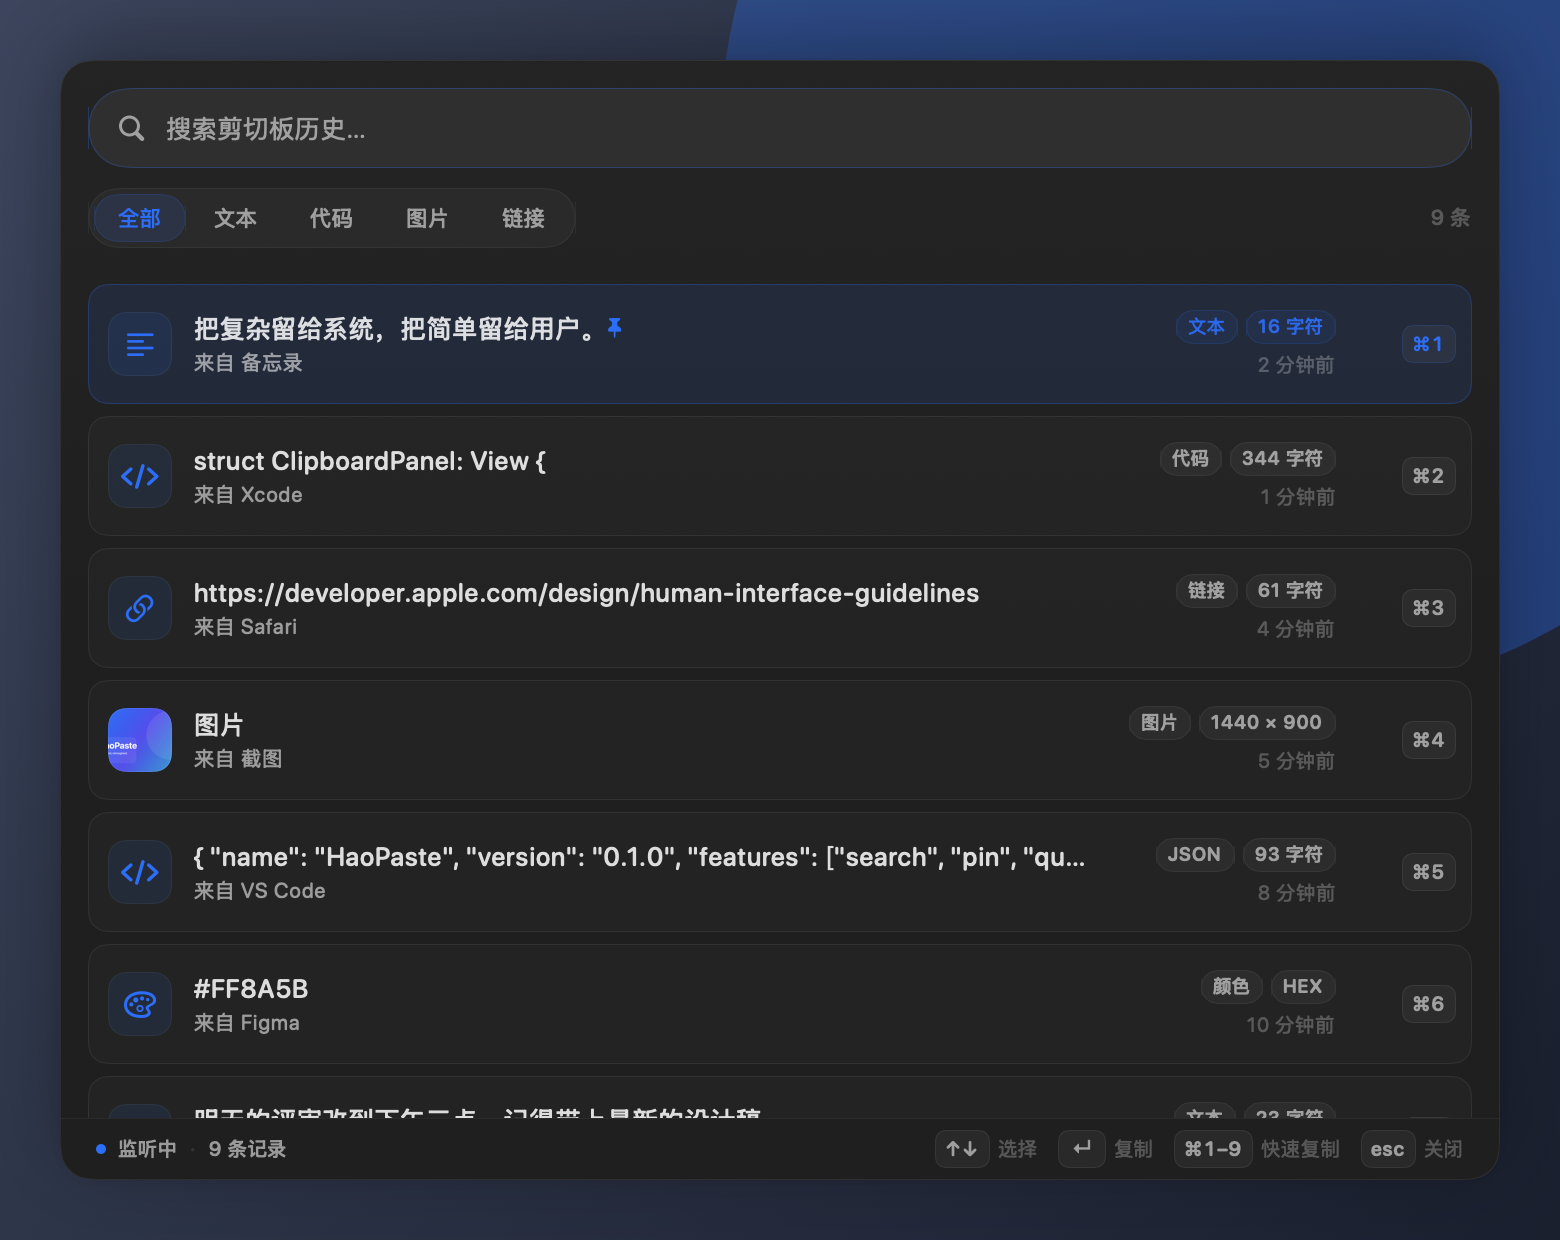
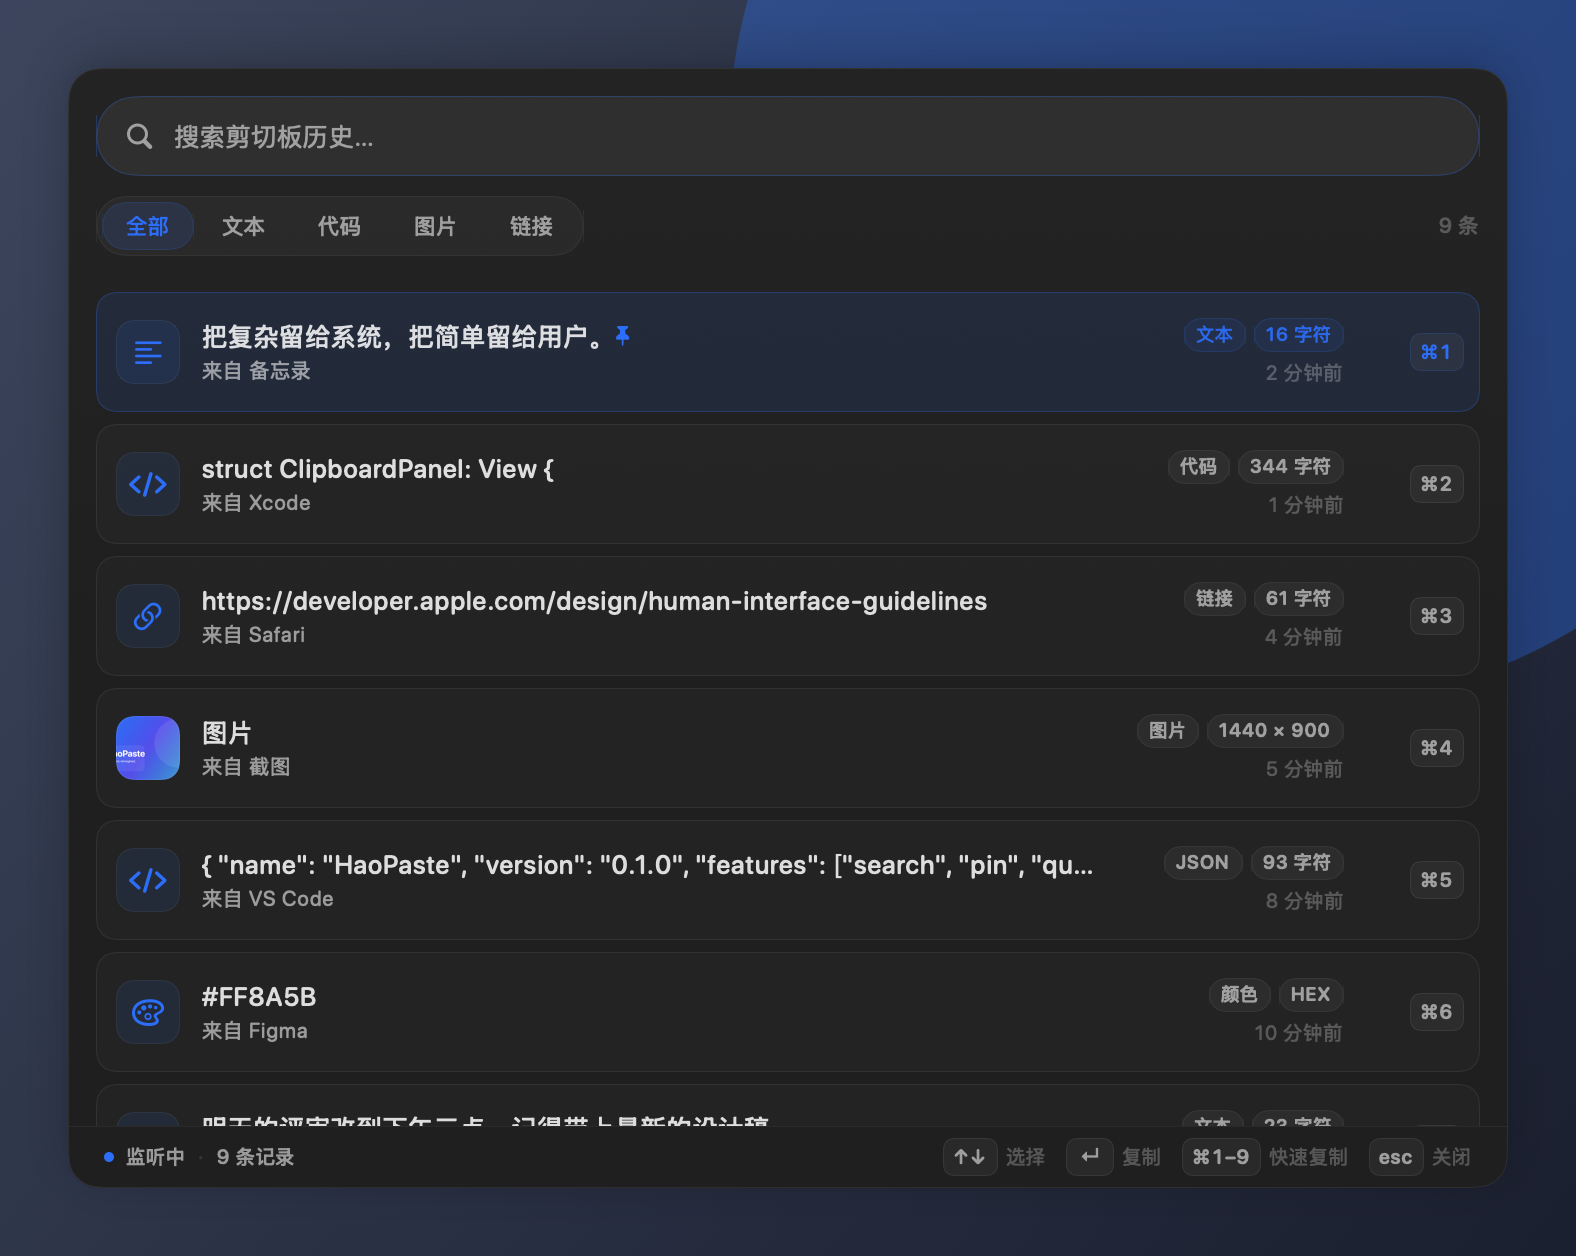
fix: dismiss panel reliably and remove duplicate app copies
- Make the floating panel nonactivating and force key-window focus so it does not depend on a flaky app activation path.
- Add local and global mouse monitors plus an app-deactivation fallback; clicks in the transparent shadow padding or outside the panel now dismiss it.
- Reduce the shadow radius and enlarge the transparent window margin so the shadow fades before the window edge; no rectangular halo.
- Stop writing a second .app into dist (DMG only) and document how to clean Xcode Debug copies from Spotlight/Launch Services.
- Refresh preview screenshots and project documentation.

diff --git a/HaoPaste/App/PanelController.swift b/HaoPaste/App/PanelController.swift
@@ -27,6 +27,9 @@ final class PanelController: NSObject, NSWindowDelegate {
 
     private let panel: ClipboardPanel
     private var keyMonitor: Any?
+    private var mouseMonitor: Any?
+    private var globalMouseMonitor: Any?
+    private var deactivationObserver: NSObjectProtocol?
     private var previousApplication: NSRunningApplication?
     private var presentationGeneration = 0
     private var isHiding = false
@@ -35,7 +38,7 @@ final class PanelController: NSObject, NSWindowDelegate {
         self.manager = manager
         self.panel = ClipboardPanel(
             contentRect: NSRect(origin: .zero, size: Theme.windowSize),
-            styleMask: [.borderless],
+            styleMask: [.borderless, .nonactivatingPanel],
             backing: .buffered,
             defer: false
         )
@@ -44,11 +47,21 @@ final class PanelController: NSObject, NSWindowDelegate {
 
         configurePanel()
         installContent()
+        observeApplicationDeactivation()
     }
 
     deinit {
         if let keyMonitor {
             NSEvent.removeMonitor(keyMonitor)
+        }
+        if let mouseMonitor {
+            NSEvent.removeMonitor(mouseMonitor)
+        }
+        if let globalMouseMonitor {
+            NSEvent.removeMonitor(globalMouseMonitor)
+        }
+        if let deactivationObserver {
+            NotificationCenter.default.removeObserver(deactivationObserver)
         }
     }
 
@@ -112,6 +125,8 @@ final class PanelController: NSObject, NSWindowDelegate {
         let generation = presentationGeneration
 
         removeKeyMonitor()
+        removeMouseMonitor()
+        removeGlobalMouseMonitor()
 
         let reduceMotion = NSWorkspace.shared.accessibilityDisplayShouldReduceMotion
 
@@ -172,6 +187,78 @@ final class PanelController: NSObject, NSWindowDelegate {
         if let keyMonitor {
             NSEvent.removeMonitor(keyMonitor)
             self.keyMonitor = nil
+        }
+    }
+
+    private func installMouseMonitor() {
+        removeMouseMonitor()
+
+        mouseMonitor = NSEvent.addLocalMonitorForEvents(
+            matching: [.leftMouseDown, .rightMouseDown]
+        ) { [weak self] event in
+            guard
+                let self,
+                self.panel.isVisible,
+                event.window === self.panel
+            else {
+                return event
+            }
+
+            // Clicks in the transparent shadow padding belong to our window but
+            // are visually outside the panel. Treat them as outside clicks.
+            let cardRect = NSRect(
+                origin: NSPoint(x: Theme.windowPadding, y: Theme.windowPadding),
+                size: Theme.panelSize
+            )
+
+            if !cardRect.contains(event.locationInWindow) {
+                self.hide()
+                return nil
+            }
+
+            return event
+        }
+    }
+
+    private func removeMouseMonitor() {
+        if let mouseMonitor {
+            NSEvent.removeMonitor(mouseMonitor)
+            self.mouseMonitor = nil
+        }
+    }
+
+    /// Dismiss when the user clicks into any other application, even if the
+    /// panel never managed to become the active application's key window.
+    private func installGlobalMouseMonitor() {
+        removeGlobalMouseMonitor()
+
+        globalMouseMonitor = NSEvent.addGlobalMonitorForEvents(
+            matching: [.leftMouseDown, .rightMouseDown]
+        ) { [weak self] _ in
+            Task { @MainActor [weak self] in
+                guard let self, self.panel.isVisible, !self.isHiding else { return }
+                self.hide(restoreFocus: false)
+            }
+        }
+    }
+
+    private func removeGlobalMouseMonitor() {
+        if let globalMouseMonitor {
+            NSEvent.removeMonitor(globalMouseMonitor)
+            self.globalMouseMonitor = nil
+        }
+    }
+
+    private func observeApplicationDeactivation() {
+        deactivationObserver = NotificationCenter.default.addObserver(
+            forName: NSApplication.didResignActiveNotification,
+            object: NSApp,
+            queue: .main
+        ) { [weak self] _ in
+            Task { @MainActor [weak self] in
+                guard let self, self.panel.isVisible, !self.isHiding else { return }
+                self.hide(restoreFocus: false)
+            }
         }
     }
 
@@ -280,7 +367,10 @@ final class PanelController: NSObject, NSWindowDelegate {
     private func activatePanel() {
         NSApp.activate()
         panel.makeKeyAndOrderFront(nil)
+        panel.orderFrontRegardless()
         installKeyMonitor()
+        installMouseMonitor()
+        installGlobalMouseMonitor()
 
         // Let the window become key before handing focus to the search field.
         DispatchQueue.main.async { [weak self] in

diff --git a/HaoPaste/Support/DebugRenderer.swift b/HaoPaste/Support/DebugRenderer.swift
@@ -22,18 +22,27 @@ enum DebugRenderer {
         let firstItemID = manager.filteredItems(query: "", filter: .all).first?.id
         state.prepareForPresentation(firstItemID: firstItemID)
 
+        let isDark = ProcessInfo.processInfo.environment["HAOPASTE_RENDER_APPEARANCE"] == "dark"
+
+        let backgroundColors: [Color] = isDark
+            ? [
+                Color(nsColor: NSColor(calibratedRed: 0.20, green: 0.24, blue: 0.34, alpha: 1)),
+                Color(nsColor: NSColor(calibratedRed: 0.08, green: 0.10, blue: 0.16, alpha: 1))
+            ]
+            : [
+                Color(nsColor: NSColor(calibratedRed: 0.90, green: 0.93, blue: 0.97, alpha: 1)),
+                Color(nsColor: NSColor(calibratedRed: 0.70, green: 0.76, blue: 0.86, alpha: 1))
+            ]
+
         let content = ZStack {
             LinearGradient(
-                colors: [
-                    Color(nsColor: NSColor(calibratedRed: 0.20, green: 0.24, blue: 0.34, alpha: 1)),
-                    Color(nsColor: NSColor(calibratedRed: 0.08, green: 0.10, blue: 0.16, alpha: 1))
-                ],
+                colors: backgroundColors,
                 startPoint: .topLeading,
                 endPoint: .bottomTrailing
             )
 
             Circle()
-                .fill(Color.accentColor.opacity(0.35))
+                .fill(Color.accentColor.opacity(isDark ? 0.35 : 0.16))
                 .frame(width: 560, height: 560)
                 .blur(radius: 120)
                 .offset(x: 250, y: -240)
@@ -60,7 +69,6 @@ enum DebugRenderer {
         if ProcessInfo.processInfo.environment["HAOPASTE_RENDER_APPEARANCE"] == "dark" {
             window.appearance = NSAppearance(named: .darkAqua)
         }
-
         if let screen = NSScreen.main {
             // Keep the test window away from the cursor so rows render in their
             // idle state rather than a hover state.

diff --git a/HaoPaste/Views/ContentView.swift b/HaoPaste/Views/ContentView.swift
@@ -40,8 +40,8 @@ struct ContentView: View {
         }
         .clipShape(Theme.panelShape)
         .hairlineStroke(Theme.panelShape)
-        .shadow(color: Color.black.opacity(0.28), radius: 22, x: 0, y: 8)
-        .shadow(color: Color.black.opacity(0.08), radius: 3, x: 0, y: 1)
+        .shadow(color: Color.black.opacity(0.20), radius: 14, x: 0, y: 5)
+        .shadow(color: Color.black.opacity(0.06), radius: 2, x: 0, y: 1)
         .padding(Theme.windowPadding)
         .onAppear {
             state.ensureSelection(in: visibleItems)

diff --git a/HaoPaste/Theme/Theme.swift b/HaoPaste/Theme/Theme.swift
@@ -15,7 +15,7 @@ enum Theme {
     static let hairline: CGFloat = 0.5
 
     static let panelSize = CGSize(width: 720, height: 560)
-    static let windowPadding: CGFloat = 30
+    static let windowPadding: CGFloat = 34
     static let windowSize = CGSize(
         width: panelSize.width + windowPadding * 2,
         height: panelSize.height + windowPadding * 2

diff --git a/Docs/ARCHITECTURE.md b/Docs/ARCHITECTURE.md
@@ -147,10 +147,10 @@ struct ClipboardItem: Identifiable, Codable, Hashable {
 ### 6.3 面板呈现
 
 1. 全局快捷键 / 菜单栏左键 / 应用重新打开触发 `PanelController.show()`。
-2. 根据鼠标所在屏幕居中、靠上定位；窗口尺寸为 780×620（内容区 720×560，外围留给阴影）。
-3. 记录当前前台应用，激活 HaoPaste，使无边框 `NSPanel` 成为 key window。
+2. 根据鼠标所在屏幕居中、靠上定位；窗口尺寸为 788×628（内容区 720×560，外围留给阴影）。
+3. 记录当前前台应用；面板使用 `.nonactivatingPanel` + `orderFrontRegardless`，确保即使不抢占前台应用也能成为 key window。
 4. SwiftUI 搜索框获取焦点；列表选中第一项。
-5. 关闭时按需重新激活之前的前台应用，避免焦点丢失。
+5. 点击面板外侧、阴影留白区或其他应用时关闭。关闭时按需重新激活之前的前台应用，避免焦点丢失。
 
 ### 6.4 键盘事件
 
@@ -170,7 +170,7 @@ struct ClipboardItem: Identifiable, Codable, Hashable {
 | 面板圆角 | 16pt，`.continuous` |
 | 卡片 / 图标圆角 | 10pt / 9pt，`.continuous` |
 | 面板材质 | `.regularMaterial` |
-| 窗口内边距 | 30pt（容纳 22pt 柔和阴影） |
+| 窗口内边距 | 34pt（容纳 14pt 柔和阴影，避免阴影被窗口边缘裁切） |
 | 描边 | 0.5pt，`Color.primary.opacity(0.08)` |
 | 主色 | `Color.accentColor` |
 | 字体 | SF Pro Rounded：`.system(..., design: .rounded)` |

diff --git a/Docs/DEVELOPMENT.md b/Docs/DEVELOPMENT.md
@@ -118,10 +118,11 @@ make dmg
 输出：
 
 ```text
-dist/HaoPaste.app                       # 直接可运行的 Release app
 dist/HaoPaste-0.1.0.dmg                 # 安装包（app + Applications 快捷方式）
 dist/HaoPaste-0.1.0.dmg.sha256          # SHA-256 校验
 ```
+
+> `dist/` 只保留 DMG，不再额外放一份 `.app`，避免 Spotlight / Launch Services 中出现多个 HaoPaste 副本。可运行的 Release 产物位于 `.build/release/Build/Products/Release/HaoPaste.app`。
 
 DMG 中包含 `安装说明.txt`，用户拖入 Applications 即可。应用本身是自包含的，不需要 Xcode、命令行或额外运行时。
 
@@ -158,10 +159,10 @@ open /Applications/HaoPaste.app
 ```bash
 codesign --force --deep --options runtime --timestamp \
   --sign "Developer ID Application: Your Name (TEAMID)" \
-  "dist/HaoPaste.app"
+  ".build/release/Build/Products/Release/HaoPaste.app"
 ```
 
-4. 重新生成 DMG；
+4. 签名后重新生成 DMG（打包脚本会保留有效签名）；
 5. 提交 Apple Notary Service 并 stapling：
 
 ```bash
